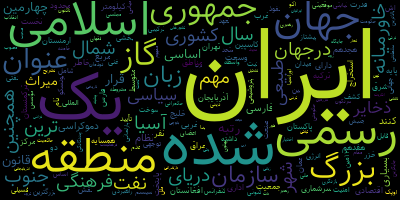
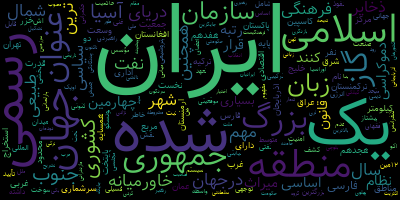
Add `process_text` method. ============================== - Add `process_text` method for improving speed of the WordcloudFa. - Add `add_stop_words_from_file` for convient addition of stopwords from file. - Add CHANGELOG.md file - Change version number to 0.1.4 - Edit the description text of the pac

diff --git a/wordcloud_fa/WordCloudFa.py b/wordcloud_fa/WordCloudFa.py
@@ -1,14 +1,17 @@
 from typing import List, Set, Iterable, Dict
 from arabic_reshaper import arabic_reshaper
 from bidi.algorithm import get_display
-from wordcloud import WordCloud
+from wordcloud import WordCloud, STOPWORDS
 from os.path import dirname, join
 from os import environ
 from hazm import Normalizer
-from re import sub
+import re
+from sys import version
+
+from wordcloud.tokenization import unigrams_and_bigrams, process_tokens
 
 FILE = dirname(__file__)
-STOPWORDS = set(map(str.strip, open(join(FILE, 'stopwords'), encoding="utf8").readlines()))
+STOPWORDS.update(map(str.strip, open(join(FILE, 'stopwords'), encoding="utf8").readlines()))
 FONT_PATH = environ.get('FONT_PATH', join(FILE, 'Fonts', 'font.ttf'))
 
 
@@ -50,7 +53,7 @@ class WordCloudFa(WordCloud):
                          colormap, normalize_plurals, contour_width,
                          contour_color, repeat)
         self.font_path = font_path if font_path is not None else FONT_PATH
-        self.stopwords = stopwords if stopwords is not None else STOPWORDS
+        self.stopwords: set = set(stopwords) if stopwords is not None else STOPWORDS
         self.persian_normalize: bool = persian_normalize
         self.include_numbers = include_numbers
 
@@ -77,21 +80,44 @@ class WordCloudFa(WordCloud):
         for stop_word in stop_words:
             self.stopwords.add(stop_word)
 
-    def process_text(self, text):
+    def add_stop_words_from_file(self, file_path: str) -> None:
         """
+        Reads all words in the `file_path` and add them to the `stop_words` set.
+        You should place each stop word in a separate line in your file without empty line at the end
+        (Empty line may cause adding an empty string to the list of stop_words).
+        :param file_path: Relative or Absolute path to the file.
+        :return:
+        """
+        with open(file_path, 'r') as file:
+            self.add_stop_words([x.strip() for x in file.readlines()])
+
+    def process_text(self, text: str) -> Dict[str, int]:
+        """
+        Splits a long text into words.
         If `persian_normalize` attribute has been set to True, normalizes `text` with Hazm Normalizer.
         If `include_numbers` attribute has been set to False, removes all Persian, English and Arabic numbers from
         text`.
-        At the end returns result of `WordCloud.process_text` method.
-        :param text: str
-        :return:
+        :param text: The text we want to process
+        :return: a dictionary. keys are words and values are the frequencies.
         """
+        flags = (re.UNICODE if version < '3' and type(text) is unicode  # noqa: F821
+                 else 0)
+        regexp = self.regexp if self.regexp is not None else r"\w[\w']+"
+
         if self.persian_normalize:
             normalizer = Normalizer()
             text = normalizer.normalize(text)
         if not self.include_numbers:
-            text = sub(r"[0-9\u06F0-\u06F9\u0660-\u0669]", "", text)
-        return super().process_text(text)
+            text = re.sub(r"[0-9\u06F0-\u06F9\u0660-\u0669]", "", text)
+
+        words = re.findall(regexp, text, flags)
+
+        if self.collocations:
+            word_counts = unigrams_and_bigrams(words, self.normalize_plurals)
+        else:
+            word_counts, _ = process_tokens(words, self.normalize_plurals)
+
+        return word_counts
 
     def generate_from_frequencies(self, frequencies: Dict[str, float], max_font_size=None):
         """

diff --git a/setup.py b/setup.py
@@ -8,9 +8,9 @@ with open(path.join(this_directory, 'README.md'), encoding='utf-8') as f:
 setup(
     name='wordcloud_fa',
     packages=['wordcloud_fa'],
-    version='0.1.3',
+    version='0.1.4',
     license='MIT',
-    description='A wrapper for wordcloud module for creating persian word cloud.',
+    description='A wrapper for wordcloud module for creating persian (and other rtl languages) word cloud.',
     long_description=long_description,
     long_description_content_type='text/markdown',
     author='Mohammadreza Alihoseiny',

diff --git a/README.md b/README.md
@@ -132,6 +132,17 @@ wc = WordCloudFa()
 wc.add_stop_words(['کلمهی اول', 'کلمهی دوم'])
 ``` 
 
+Also you can add stopwords from a file. That file should include stopwords and each word should be in a separate line.
+
+For that, you should use `add_stop_words_from_file` method. The only parameter of this 
+
+method is relative or absolute path to the stop words file.
+
+```python
+wc = WordCloudFa()
+wc.add_stop_words_from_file("stopwords.txt")
+```
+
 ## Mask Image
 
 You can mask the final word cloud by an image. For example, the first image of this document is a wordcloud masked by an image 

diff --git a/CHANGELOG.md b/CHANGELOG.md
@@ -1,0 +1,4 @@
+# 0.1.4
+- `add_stop_words_from_file` method added to the class for simple adding stopwords from file.
+- Add English stop words of `wordcloud` module to the default stopwords plus persian ones.
+- Improve the speed of the WordcloudFa by implementing the `process_text` method and don't calling the `Wordcloud` version of that.
